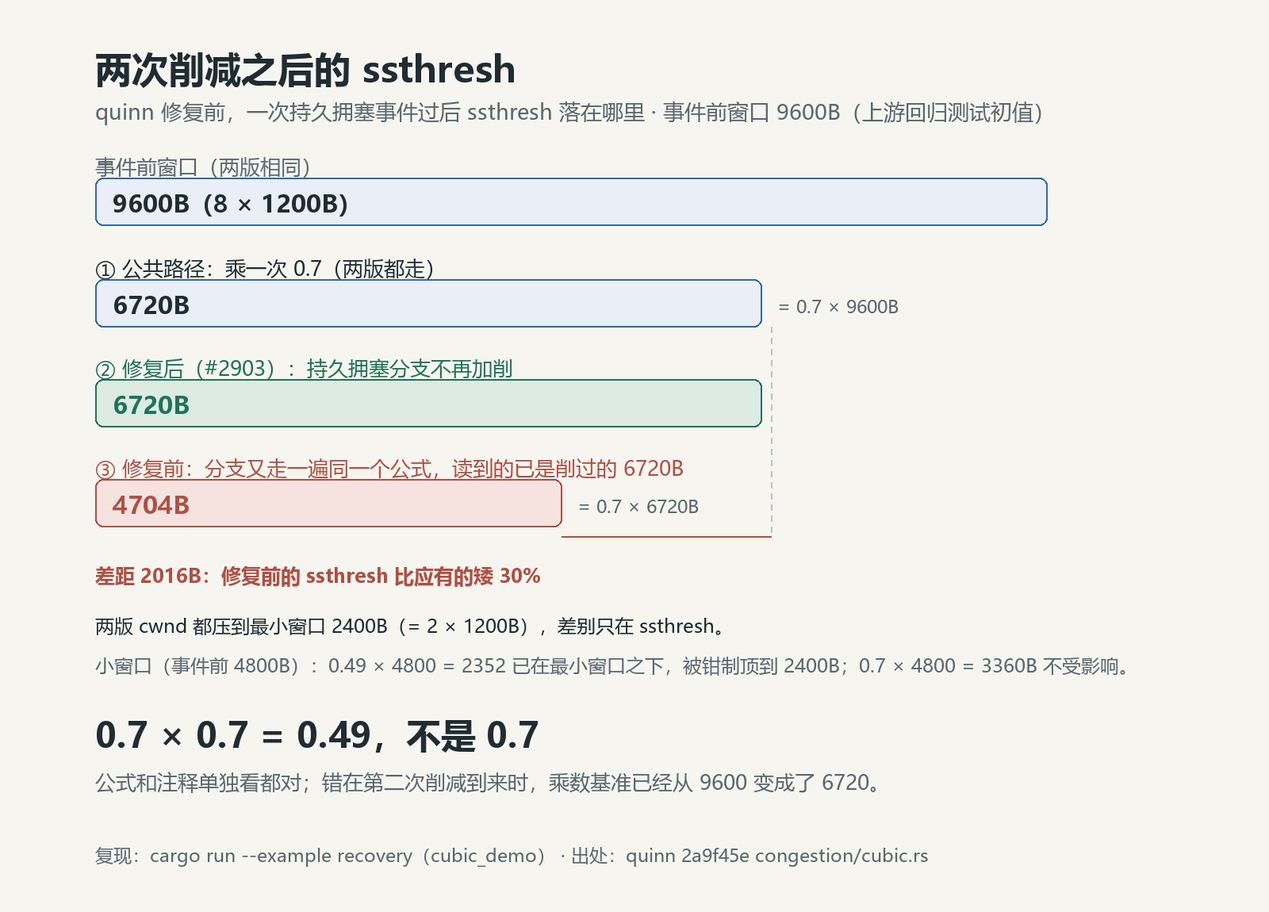
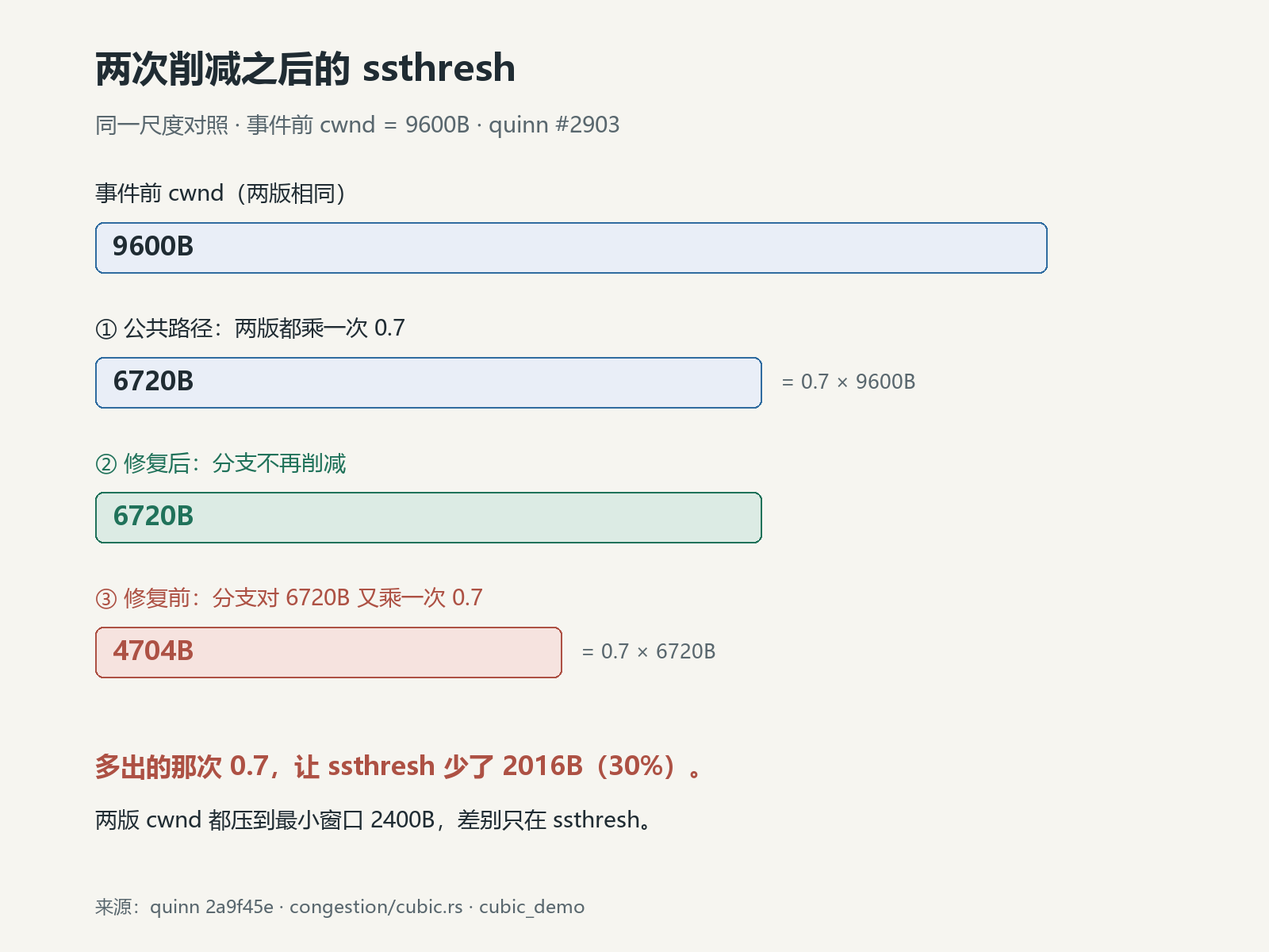
docs(cubic): clarify RFC semantics and demo scope, improve explanations and diagram

diff --git a/拥塞控制_cubic/cubic_demo/make_fig.py b/拥塞控制_cubic/cubic_demo/make_fig.py
@@ -2,7 +2,7 @@
 
 - ../assets/fig1_ssthresh_two_cuts.png（Pillow）：讲机制——事件后 ssthresh 去了哪里，
   事件前窗口、一次 0.7、0.49 画在同一把尺子上。数字与单元测试断言一致
-  （4704/6720/2352→2400/3360）。
+  （9600→6720/4704）。
 - ../assets/fig2_recovery.png（matplotlib）：讲后果——持久拥塞事件后两版窗口的
   逐 RTT 轨迹，数据经 `cargo run --example plot_data` 实时导出。
 
@@ -28,64 +28,58 @@ if not FONT_BOLD.exists():
 INK, MUTED, LINE = "#202c33", "#59676e", "#d4dbda"
 BLUE, GREEN, RED = "#306ca0", "#20725a", "#ad5144"
 BG = "#f6f5f0"
-SCALE = 0.125  # px / byte：9600B → 1200px，三行条共用这一把尺子
+SCALE = 0.125  # px / byte：9600B → 1200px，各行条形共用这一把尺子
 
 
 def make_fig1() -> Path:
     from PIL import Image, ImageDraw, ImageFont
 
-    W, H = 1600, 1150
+    W, H = 1600, 1200
+    M = 120
     im = Image.new("RGB", (W, H), BG)
     d = ImageDraw.Draw(im)
+    text_boxes = []
 
     def text(x, y, value, size=28, color=INK, bold=False):
-        d.text(
-            (x, y),
-            value,
-            font=ImageFont.truetype(str(FONT_BOLD if bold else FONT), size),
-            fill=color,
-        )
+        font = ImageFont.truetype(str(FONT_BOLD if bold else FONT), size)
+        box = d.textbbox((x, y), value, font=font, anchor="lt")
+        assert M <= box[0] and box[2] <= W - M, (value, box)
+        assert 0 <= box[1] and box[3] <= H, (value, box)
+        for previous, previous_box in text_boxes:
+            overlap = (min(box[2], previous_box[2]) > max(box[0], previous_box[0])
+                       and min(box[3], previous_box[3]) > max(box[1], previous_box[1]))
+            assert not overlap, (previous, value)
+        text_boxes.append((value, box))
+        d.text((x, y), value, font=font, fill=color, anchor="lt")
+        return box
 
-    def bar(x, y, value, fill, outline, label, lab_color, note=None, note_y=18):
-        w = int(value * SCALE)
-        d.rounded_rectangle((x, y, x + w, y + 60), radius=10, fill=fill, outline=outline, width=2)
-        text(x + 22, y + 12, label, 30, lab_color, bold=True)
+    def row(label_y, value, fill, outline, label, color=INK, note=None):
+        # 行标题、条形和下一行之间均留独立净空；不是靠画布变大后缩小字号。
+        bar_y = label_y + 50
+        bar_h = 64
+        title_box = text(M, label_y, label, 28, color)
+        assert bar_y - title_box[3] >= 20
+        width = int(value * SCALE)
+        d.rounded_rectangle((M, bar_y, M + width, bar_y + bar_h), radius=10,
+                            fill=fill, outline=outline, width=2)
+        text(M + 22, bar_y + 17, f"{value}B", 32, color, bold=True)
         if note:
-            text(x + w + 20, y + note_y, note, 23, MUTED)
+            text(M + width + 24, bar_y + 21, note, 25, MUTED)
 
-    M = 120  # 全图统一左边距（文字与条形共用）
-    B1, B2, B3, B0 = 224, 478, 604, 6720 * int(SCALE)  # 各行 y 与 6720 的位置
-    text(M, 55, "两次削减之后的 ssthresh", 46, bold=True)
-    text(M, 122, "quinn 修复前，一次持久拥塞事件过后 ssthresh 落在哪里 · 事件前窗口 9600B（上游回归测试初值）", 27, MUTED)
+    text(M, 64, "两次削减之后的 ssthresh", 46, bold=True)
+    text(M, 144, "同一尺度对照 · 事件前 cwnd = 9600B · quinn #2903", 28, MUTED)
 
-    text(M, 192, "事件前窗口（两版相同）", 26, MUTED)
-    bar(M, 224, 9600, "#e9eef7", BLUE, "9600B（8 × 1200B）", INK)
+    row(230, 9600, "#e9eef7", BLUE, "事件前 cwnd（两版相同）")
+    row(400, 6720, "#e9eef7", BLUE, "① 公共路径：两版都乘一次 0.7",
+        note="= 0.7 × 9600B")
+    row(570, 6720, "#dcebe4", GREEN, "② 修复后：分支不再削减", GREEN)
+    row(740, 4704, "#f6e3df", RED, "③ 修复前：分支对 6720B 又乘一次 0.7", RED,
+        note="= 0.7 × 6720B")
 
-    text(M, 320, "① 公共路径：乘一次 0.7（两版都走）", 26)
-    bar(M, 352, 6720, "#e9eef7", BLUE, "6720B", INK, note="= 0.7 × 9600B")
-
-    text(M, 446, "② 修复后（#2903）：持久拥塞分支不再加削", 26, GREEN)
-    bar(M, 478, 6720, "#dcebe4", GREEN, "6720B", GREEN)
-
-    text(M, 572, "③ 修复前：分支又走一遍同一个公式，读到的已是削过的 6720B", 26, RED)
-    bar(M, 604, 4704, "#f6e3df", RED, "4704B", RED, note="= 0.7 × 6720B")
-
-    # 6720 的刻度位置：从 ① 条底缘向下引浅灰虚线（与条形右边框错开 12px），
-    # ③ 条下方用红线标出 4704 到 6720 的差距，虚线落到红线之上的位置形成 L 形标记
-    x6720 = M + int(6720 * SCALE)  # ①② 条右缘 = 6720 的位置
-    xr = x6720 + 12                # 虚线 x，避开条形 2px 边框
-    for y in range(412, 676, 14):
-        d.line((xr, y, xr, min(y + 7, 676)), fill="#b7c4c7", width=2)
-    d.line((M + int(4704 * SCALE), 676, xr, 676), fill=RED, width=2)  # ③ 条右缘 → 6720 刻度
-    text(M, 708, "差距 2016B：修复前的 ssthresh 比应有的矮 30%", 25, RED, bold=True)
-
-    text(M, 772, "两版 cwnd 都压到最小窗口 2400B（= 2 × 1200B），差别只在 ssthresh。", 24)
-    text(M, 822, "小窗口（事件前 4800B）：0.49 × 4800 = 2352 已在最小窗口之下，被钳制顶到 2400B；0.7 × 4800 = 3360B 不受影响。", 24, MUTED)
-
-    text(M, 896, "0.7 × 0.7 = 0.49，不是 0.7", 44, bold=True)
-    text(M, 968, "公式和注释单独看都对；错在第二次削减到来时，乘数基准已经从 9600 变成了 6720。", 26, MUTED)
-
-    text(M, 1062, "复现：cargo run --example recovery（cubic_demo） · 出处：quinn 2a9f45e congestion/cubic.rs", 23, MUTED)
+    # 不再叠加跨行虚线、小窗口算例和重复的大公式；小窗口在正文第四节解释。
+    text(M, 950, "多出的那次 0.7，让 ssthresh 少了 2016B（30%）。", 32, RED, bold=True)
+    text(M, 1020, "两版 cwnd 都压到最小窗口 2400B，差别只在 ssthresh。", 28)
+    text(M, 1132, "来源：quinn 2a9f45e · congestion/cubic.rs · cubic_demo", 23, MUTED)
 
     out = ASSETS / "fig1_ssthresh_two_cuts.png"
     im.save(out)

diff --git a/拥塞控制_cubic/Cubic_Persistent_Congestion_Second_Cut_EN.md b/拥塞控制_cubic/Cubic_Persistent_Congestion_Second_Cut_EN.md
@@ -1,6 +1,6 @@
 # How ssthresh Became 0.49: The Second Cut in Quinn's CUBIC Persistent Congestion
 
-The pre-event window is 9600 bytes (8 × 1200, the initial value in the upstream regression test), and one persistent congestion event lands on CUBIC. Per the RFC, after the event `cwnd` is pressed to the minimum window of 2400 bytes and `ssthresh` = 0.7 × pre-event window = 6720 bytes ([RFC 9438 §4.8](https://www.rfc-editor.org/rfc/rfc9438.html#section-4.8)).
+Before the event, the congestion window is 9600 bytes (8 × 1200, the initial value in the upstream regression test). After persistent congestion, the fixed quinn implementation reduces `cwnd` to the minimum window of 2400 bytes and sets `ssthresh` to 0.7 × pre-event `cwnd` = 6720 bytes.
 
 Before the fix, quinn left `ssthresh` at 4704. And 4704 = 0.49 × 9600: **β_cubic got multiplied a second time**. Both versions move `cwnd` the same way; the whole difference sits at this one boundary. It is the line between slow start's doubling and congestion avoidance's step-by-step growth ([§4.6](https://www.rfc-editor.org/rfc/rfc9438.html#section-4.6)). Make it lower and the road back for the window gets longer: in the reproduction, 2 RTTs become 12, and at a smaller window 1 becomes 6.
 
@@ -56,15 +56,21 @@ The pre-event state is identical in both versions; the fork happens entirely ins
 
 ## 2. The Spec Calls for One Cut
 
-Persistent congestion is a QUIC notion ([RFC 9002 §7.6](https://www.rfc-editor.org/rfc/rfc9002.html#section-7.6)): losses persisting beyond `(smoothed_rtt + max(4×rttvar, timer granularity) + max_ack_delay) × kThreshold` trigger it, and quinn's `kThreshold` defaults to 3, so this path usually means the loss lasted roughly three PTOs — heavier than a scatter of lost packets.
+Persistent congestion is a QUIC notion. [RFC 9002 §7.6.1](https://www.rfc-editor.org/rfc/rfc9002.html#section-7.6.1) defines its duration threshold as `(smoothed_rtt + max(4×rttvar, timer granularity) + max_ack_delay) × kPersistentCongestionThreshold`; quinn defaults to a multiplier of 3.
 
-CUBIC handles it through the timeout path. [RFC 9438 §4.8](https://www.rfc-editor.org/rfc/rfc9438.html#section-4.8), verbatim:
+Exceeding that duration alone is not enough: under [§7.6.2](https://www.rfc-editor.org/rfc/rfc9002.html#section-7.6.2), after receiving an ACK the sender must declare two ack-eliciting packets lost, with their send times more than that duration apart, no packets sent between them acknowledged across packet number spaces, and an RTT sample already available when both packets were sent.
+
+This is a comparison of send times, **not a requirement for three consecutive PTO expirations**. The duration also always includes `max_ack_delay`, unlike the PTO calculation for some packet number spaces.
+
+quinn's CUBIC handles it through the timeout path. [RFC 9438 §4.8](https://www.rfc-editor.org/rfc/rfc9438.html#section-4.8), verbatim:
 
 > In the case of a timeout, CUBIC follows Reno to reduce *cwnd* but sets *ssthresh* using β_cubic (same as in Section 4.6) in a way that is different from Reno TCP.
 
-And the cut §4.6 describes is anchored to the pre-event flight window: `ssthresh = flight_size × β_cubic`. Read together, the two sections say one thing: after a timeout, `ssthresh` is **once** the 0.7 of the pre-event window, no second cut.
+The basic formula in [§4.6](https://www.rfc-editor.org/rfc/rfc9438.html#section-4.6) is `ssthresh = flight_size × β_cubic`, subject to a minimum. `flight_size` is the amount of outstanding, unacknowledged data in the network; `cwnd` is the permitted congestion window. Think of `cwnd` as a shipping allowance and `flight_size` as goods dispatched but not yet signed for. An allowance of 9600 does not mean that 9600 is on the road: if the application has only supplied 4800 bytes, the outstanding amount may be only half the allowance.
 
-The old code's comment said `4.7 Timeout` — that is not a typo. In the older RFC 8312, Timeout *was* [§4.7](https://www.rfc-editor.org/rfc/rfc8312.html#section-4.7), with "sets ssthresh using beta_cubic (same as in Section 4.5)" — the same statement as RFC 9438's. The clause has always meant "post-event `ssthresh` is 0.7 of the pre-event window". The code turned that into an **extra step** inside the persistent branch, by which point the base being multiplied was already the value the common path had cut.
+The RFC also permits implementations to use `cwnd`, but requires other measures to prevent it from growing when bytes in flight are smaller than `cwnd`. This article examines quinn's specific implementation, which uses the pre-event `cwnd`: the common path has already multiplied it by 0.7, so timeout handling must not multiply the reduced window a second time.
+
+The old code's comment said `4.7 Timeout` — that is not a typo. In the older RFC 8312, Timeout *was* [§4.7](https://www.rfc-editor.org/rfc/rfc8312.html#section-4.7), with "sets ssthresh using beta_cubic (same as in Section 4.5)" — the same statement as RFC 9438's. Both versions tell timeout handling to reuse the congestion-event β_cubic reduction, not add another reduction. The old code turned that into an **extra step** inside the persistent branch, by which point the base being multiplied was already the value the common path had cut.
 
 ## 3. NewReno Never Had This
 
@@ -84,16 +90,20 @@ if is_persistent_congestion {
 
 ## 4. How Heavy Is 0.49
 
-`ssthresh` is the boundary between slow start and congestion avoidance. At the end of a persistent congestion event the recovery state is cleared, so the sender re-enters slow start from the minimum window, doubling until `ssthresh`, then takes over with CUBIC's cubic growth. A 30%-lower `ssthresh` shortens slow start and lengthens the climb back.
+Keeping the shipping analogy: congestion cuts the allowance to a small value, and the sender then tries to build it back up. `ssthresh` is neither the current allowance nor a ceiling it can never exceed. It marks when to stop expanding quickly and start probing in smaller steps. In the code, a window below it follows slow start, growing with acknowledged bytes; at or above it, congestion avoidance takes over and CUBIC controls the growth.
 
-The `cubic_demo` in this repo is a minimal port of exactly this path; both versions run the same script: pre-event window 9600 bytes, rtt 100ms, one persistent congestion event, then each RTT sends the whole current window and it is all acknowledged, until the window is back to its pre-event size. Both versions start from 2400B (the minimum window) after the event:
+A lower threshold therefore does not mean faster recovery. With a window of 4800B and a threshold of 6720B, the next round still follows slow start. Lower that threshold to 4704B and the same 4800B window enters congestion avoidance. The two windows are the same size at this point, but their next growth steps follow different paths.
+
+The `cubic_demo` in this repo is a minimal port of the controller logic, not a full QUIC connection test. Both versions run the same script: pre-event window 9600 bytes, fixed RTT of 100ms, one direct call to the persistent-congestion handler, then each RTT simulates sending the current window and acknowledges it all in one `on_ack` call. There are no further losses, per-packet ACK scheduling, pacing, or application limits. The run stops when the window reaches its pre-event size.
+
+The 2 / 12 and 1 / 6 RTT counts below describe window recovery in this model, not measurements of connection recovery time or throughput gains. Both versions start from 2400B (the minimum window) after the event:
 
 | Event-after RTT | 1 | 2 | 3 | 4 | 5 | 6 | 7 | 8 | 9 | 10 | 11 | 12 |
 |---|---|---|---|---|---|---|---|---|---|---|---|---|
 | post-fix | 4800 | **9600** | 9600 | 9600 | 9600 | 9600 | 9600 | 9600 | 9600 | 9600 | 9600 | 9600 |
 | pre-fix | 4800 | 4800 | 4800 | 4800 | 4800 | 6000 | 6000 | 7200 | 8400 | 8400 | 8400 | **9600** |
 
-Standard window (9600B pre-event): at RTT 1 both are 4800 — 2400 has not touched either threshold yet, so slow start doubles as usual. At RTT 2 they split: above 6720, the post-fix version keeps doubling and is home at 9600; the pre-fix 4800 has already crossed the 4704 line and slides into congestion avoidance — four more RTTs pinned at 4800, then one 1200-byte cell per RTT (6000, 7200, 8400), back to 9600 only at RTT 12.
+Standard window (9600B pre-event): at RTT 1 both are 4800 — 2400 has not touched either threshold yet, so slow start doubles as usual. At RTT 2 they split: the post-fix 4800 is still below 6720, so slow start doubles it to 9600; the pre-fix 4800 has already crossed the 4704 line and slides into congestion avoidance — four more RTTs pinned at 4800, then growth in 1200-byte steps, with further pauses at intermediate windows (6000, 7200, 8400), back to 9600 only at RTT 12.
 
 Small window: with 4800 bytes pre-event, 0.49 × 4800 = 2352 is already below the minimum window of 2400 and gets clamped; 0.7 × 4800 = 3360 stays above it. Still that same 0.49 — the clamp just holds the pre-fix `ssthresh` at 2400B, a smaller drop, but the post-fix version's first growth is straight back to the pre-event size (1 RTT) while the pre-fix version pushes one cell at a time for 6:
 
@@ -127,7 +137,7 @@ fn persistent_congestion_does_not_double_reduce_ssthresh() {
 }
 ```
 
-The assertion is exactly Section 2's sentence: after a persistent congestion event, `ssthresh == 0.7 × pre-event window` and `cwnd` is down to the minimum window only. Run the 0.49 version and the first assertion catches it. The PR's verification: `cargo test -p quinn-proto`, all 333 tests pass, clippy and fmt clean.
+The assertion pins down quinn's implementation behavior: after a persistent congestion event, `ssthresh == 0.7 × pre-event window` and `cwnd` is down to the minimum window only. Run the 0.49 version and the first assertion catches it. The PR's verification: `cargo test -p quinn-proto`, all 333 tests pass, clippy and fmt clean.
 
 The `cubic_demo` port keeps the full ordering of the event handling and simplifies three things: time is integral milliseconds, rtt is fixed per call, and the spurious-rollback and MTU-update branches are dropped. Every difference between the two versions is exactly whether those five lines are there:
 
@@ -135,6 +145,8 @@ The `cubic_demo` port keeps the full ordering of the event handling and simplifi
 
 ## The Takeaway
 
-This is one of those errors that only exists when a formula is applied in the wrong place: `ssthresh = 0.7 × window` is correct in isolation, and so is the spec clause the comment points at — it simply should not sit after the common-path cut. The spec's "cut once" was implemented as "cut once in the common path, once more in the branch", and the second time it picks up an already-shrunk window.
+The problem is not 0.7, but when the window is read. quinn should calculate `ssthresh` from the pre-event `cwnd`; the branch instead reads the `window` already reduced by the common path. The same β_cubic ends up being applied twice to one congestion event. When reading state updates like these, checking the formula is only half the job. Follow the assignments too: does the `window` on the right-hand side still hold its original value at this point?
 
 The upstream fix rewrites nothing — delete five lines, add a test.
+
+Updated 2026-10-28: distinguish the RFC's `flight_size` from quinn's `cwnd`, complete the persistent-congestion conditions, specify the simulated sending and ACK model behind the recovery RTT counts, and give the mechanism diagram more space between labels and bars.

diff --git a/拥塞控制_cubic/cubic_持久拥塞_ssthresh_二次削减_中文版.md b/拥塞控制_cubic/cubic_持久拥塞_ssthresh_二次削减_中文版.md
@@ -1,6 +1,6 @@
 # ssthresh 怎么会是 0.49：quinn CUBIC 持久拥塞里的两次削减
 
-事件前窗口 9600 字节（8 × 1200，上游回归测试的初值），一次持久拥塞事件打进 CUBIC。按规范，事件后 `cwnd` 压到最小窗口 2400 字节，`ssthresh` = 0.7 × 事件前窗口 = 6720 字节（[RFC 9438 §4.8](https://www.rfc-editor.org/rfc/rfc9438.html#section-4.8)）。
+事件前，拥塞窗口是 9600 字节（8 × 1200，上游回归测试的初值）。发生持久拥塞后，修复后的 quinn 把 `cwnd` 降到最小窗口 2400 字节，`ssthresh` 则按事件前的 `cwnd` 乘一次 0.7，得到 6720 字节。
 
 修复前的 quinn 把 `ssthresh` 留成了 4704。4704 = 0.49 × 9600：**β_cubic 被乘了第二下**。`cwnd` 两版相同，差别全在这条界线上——它是慢启动翻倍和拥塞避免一格一格推的分界（[§4.6](https://www.rfc-editor.org/rfc/rfc9438.html#section-4.6)），矮了，事件后窗口回来的路就长：复现例子里，2 个 RTT 被拖成 12 个，小窗口下 1 个拖成 6 个。
 
@@ -56,17 +56,23 @@ self.state.ssthresh = cmp::max(
 
 ![事件后 ssthresh 落在哪里（同一把尺子：事件前窗口 → 一次 0.7 → 0.49）](assets/fig1_ssthresh_two_cuts.png)
 
-## 二、规范说的是撤一次
+## 二、规范说的是减一次
 
-持久拥塞是 QUIC 自己的概念（[RFC 9002 §7.6](https://www.rfc-editor.org/rfc/rfc9002.html#section-7.6)）：丢包持续超过 `(smoothed_rtt + max(4×rttvar, 时隙粒度) + max_ack_delay) × kThreshold` 就算。quinn 的 `kThreshold` 默认 3，也就是说这条路通常意味着"这一段的丢失至少持续了大约三个 PTO"——比丢几个包更重的情况。
+持久拥塞是 QUIC 自己的概念。[RFC 9002 §7.6.1](https://www.rfc-editor.org/rfc/rfc9002.html#section-7.6.1) 给出的持续时间阈值是 `(smoothed_rtt + max(4×rttvar, 时钟粒度) + max_ack_delay) × kPersistentCongestionThreshold`，quinn 的倍数默认 3。
 
-CUBIC 对它的处理走的是超时路径，[RFC 9438 §4.8](https://www.rfc-editor.org/rfc/rfc9438.html#section-4.8) 的原文：
+但超过这段时间还不够：[§7.6.2](https://www.rfc-editor.org/rfc/rfc9002.html#section-7.6.2) 要求收到 ACK 后，判定两个会引发确认的包（ack-eliciting）丢失，两包发送时间之差超过阈值，且其间发送的包跨包号空间都没有被确认；这两个包发送时还必须已经有 RTT 样本。
+
+这里比较的是发送时间跨度，**不要求实际连续触发三次 PTO**；该持续时间计算也始终计入 `max_ack_delay`，与部分包号空间的 PTO 计算有别。
+
+quinn 的 CUBIC 对它的处理走的是超时路径，[RFC 9438 §4.8](https://www.rfc-editor.org/rfc/rfc9438.html#section-4.8) 的原文：
 
 > In the case of a timeout, CUBIC follows Reno to reduce *cwnd* but sets *ssthresh* using β_cubic (same as in Section 4.6) in a way that is different from Reno TCP.
 
-而 §4.6 说的削减，基准是事件前的在途窗口：`ssthresh = flight_size × β_cubic`。两节合起来的意思就是一句话：超时之后，`ssthresh` 等于**事件前**窗口的一次 0.7，不再减第二下。
+而 [§4.6](https://www.rfc-editor.org/rfc/rfc9438.html#section-4.6) 的基本公式是 `ssthresh = flight_size × β_cubic`（另有最小值约束）。`flight_size` 是网络中尚未确认的数据量，`cwnd` 是允许的拥塞窗口，两者不一定相等。可以把 `cwnd` 看作发货额度，`flight_size` 看作已经发出、还没签收的货量：额度有 9600，不代表路上就一定有 9600；如果应用暂时只交出 4800 的数据，实际在途量就可能只有额度的一半。
 
-旧代码的注释写着 `4.7 Timeout`——那不是编号写错了。旧版 RFC 8312 里 Timeout 就是 [§4.7](https://www.rfc-editor.org/rfc/rfc8312.html#section-4.7)，原文 "sets ssthresh using beta_cubic (same as in Section 4.5)"，和 RFC 9438 说的是同一件事。条款的意思始终是"削减后 `ssthresh` 为事件前窗口的 0.7 倍"；代码把它当成持久拥塞分支里的一个**追加步骤**，乘的基准已经变成了公共路径削完的值。
+RFC 也允许实现使用 `cwnd`，但要求另有措施：在在途数据量小于 `cwnd` 时，阻止 `cwnd` 继续增长。本文讨论的是 quinn 以事件前 `cwnd` 为基准的具体实现：公共路径已经乘过一次 0.7，超时处理不应再对削减后的窗口乘第二次。
+
+旧代码的注释写着 `4.7 Timeout`——那不是编号写错了。旧版 RFC 8312 里 Timeout 就是 [§4.7](https://www.rfc-editor.org/rfc/rfc8312.html#section-4.7)，原文 "sets ssthresh using beta_cubic (same as in Section 4.5)"，和 RFC 9438 说的是同一件事。两版条款都让超时处理沿用拥塞事件的 β_cubic 削减，而不是追加一次削减；旧代码却把它当成持久拥塞分支里的一个**追加步骤**，乘的基准已经变成了公共路径削完的值。
 
 ## 三、同一个问题，NewReno 没有
 
@@ -86,13 +92,17 @@ if is_persistent_congestion {
 
 ## 四、0.49 有多重
 
-`ssthresh` 是慢启动和拥塞避免的分界。持久拥塞收尾时恢复状态被清掉，发送方从最小窗口重新进慢启动，指数增长到 `ssthresh` 才切回 CUBIC 的立方增长。`ssthresh` 矮 30%，慢启动阶段被截短，后面靠立方曲线爬回来的路就更长。
+继续用发货来想：发生拥塞后，额度先被压到很小，接下来要试着恢复。`ssthresh` 不是当前额度，也不是以后不能超过的上限，而是“何时停止快速扩量、改为小步试探”的分界。对应到代码，窗口低于它时走慢启动，随确认字节数增长；达到它后进入拥塞避免，由 CUBIC 控制增长。
 
-仓库里的 `cubic_demo` 把这条路径做了个最小移植，两个版本跑同一个剧本：事件前窗口 9600 字节、rtt 100ms，触发一次持久拥塞事件，之后每个 RTT 把当前窗口一次性发满并全部确认，直到窗口回到事件前大小。事件后两版都从 2400B（最小窗口）出发，爬升过程画出来：
+所以，阈值更低不等于恢复更快。窗口来到 4800B 时，若分界是 6720B，下一轮还可以走慢启动；若分界已经降到 4704B，同样的 4800B 就会进入拥塞避免。两版此刻的窗口一样大，接下来却走了不同的增长路径。
 
-![持久拥塞事件之后，两版窗口的逐 RTT 轨迹：左为标准窗口，右为小窗口](assets/fig2_recovery.png)
+仓库里的 `cubic_demo` 是控制器逻辑的最小移植，不跑完整 QUIC 连接。两个版本跑同一个剧本：事件前窗口 9600 字节、RTT 固定 100ms，直接调用一次持久拥塞事件处理，之后每个 RTT 按当前窗口模拟发送，再用一次 `on_ack` 调用确认整个窗口；没有新增丢包，也不模拟逐包 ACK、pacing 或应用受限。窗口回到事件前大小就停止。
 
-左图是标准窗口（事件前 9600B）：第一个 RTT 两版都是 4800——2400 还没碰各自的阈值，慢启动如常翻倍。第二个 RTT 分道：6720 之上，fixed 继续翻倍回到 9600；buggy 的 4800 已经越过 4704 的阈值，滑进拥塞避免：窗口又停住 4 个 RTT，随后按 1200 字节一格地推，6000、7200、8400，到第 12 个 RTT 才回到 9600。
+下面的 2 / 12、1 / 6 个 RTT 描述的是这个模型里的窗口恢复，不代表完整连接的恢复时延或吞吐收益。事件后两版都从 2400B（最小窗口）出发：
+
+![cubic_demo 固定 RTT、每 RTT 一次全窗口 ACK 模型下的窗口轨迹：左为事件前 9600B，右为 4800B](assets/fig2_recovery.png)
+
+左图是标准窗口（事件前 9600B）：第一个 RTT 两版都是 4800——2400 还没碰各自的阈值，慢启动如常翻倍。第二个 RTT 分道：fixed 的 4800 仍低于 6720，继续慢启动翻倍回到 9600；buggy 的 4800 已经越过 4704 的阈值，滑进拥塞避免：窗口又停住 4 个 RTT，随后以 1200 字节为步长继续增长，中间仍有停顿，依次经过 6000、7200、8400，到第 12 个 RTT 才回到 9600。
 
 右图是小窗口：事件前 4800 字节时，0.49 × 4800 = 2352 已经低于最小窗口 2400，被钳制定住；0.7 × 4800 = 3360 还留在上面。相差的还是那个 0.49，只是钳制把 buggy 的 `ssthresh` 顶在 2400B——矮得少一点，但 fixed 第一次增长就直接回到事件前大小（1 个 RTT），buggy 一格一格推了 6 个 RTT。
 
@@ -121,7 +131,7 @@ fn persistent_congestion_does_not_double_reduce_ssthresh() {
 }
 ```
 
-断言就是第二节那句话：持久拥塞事件之后，`ssthresh == 0.7 × 事件前窗口`，`cwnd` 只剩最小窗口。换成 0.49 的版本，第一行断言就给抓住。PR 的验证记录：`cargo test -p quinn-proto` 333 个测试全过，clippy 与 fmt 干净。
+断言钉住的是 quinn 的实现行为：持久拥塞事件之后，`ssthresh == 0.7 × 事件前窗口`，`cwnd` 只剩最小窗口。换成 0.49 的版本，第一行断言就给抓住。PR 的验证记录：`cargo test -p quinn-proto` 333 个测试全过，clippy 与 fmt 干净。
 
 `cubic_demo` 的移植保留了事件处理的完整顺序，简化了三件事：时间用毫秒整数、rtt 每次调用固定、去掉 spurious 回滚和 MTU 更新的枝节。两版的全部差异就是那五行在不在：
 
@@ -129,6 +139,8 @@ fn persistent_congestion_does_not_double_reduce_ssthresh() {
 
 ## 写在最后
 
-这是个把公式放错顺序就能成立的错：`ssthresh = 0.7 × window` 这一句，单独看和注释指向的规范条款都没有错，它只是不该出现在公共路径削减之后。规范里"减一次"的语义，被实现成了"公共路径减一次、分支里再减一次"，而第二次拿到的已经是缩小后的窗口。
+问题不在 0.7，而在取值的时机。quinn 本来要用事件前的 `cwnd` 算 `ssthresh`，分支里读到的却是公共路径已经削过的 `window`。同一个 β_cubic，就这样对同一场拥塞生效了两次。读这类状态更新，除了核对公式，还得沿着赋值顺序看：右侧的 `window` 到这里时，还是原来那个值吗？
 
 上游的修法没有重写任何逻辑——删五行，加测试。
+
+2026-10-28 修订：区分 RFC 的 `flight_size` 与 quinn 使用的 `cwnd`，补全持久拥塞判定条件，明确恢复 RTT 数字对应的模拟发送与 ACK 模型，并疏开机制图的标签间距。

diff --git a/拥塞控制_cubic/cubic_demo/README.md b/拥塞控制_cubic/cubic_demo/README.md
@@ -1,6 +1,6 @@
 # CUBIC：持久拥塞下 ssthresh 的两版处理
 
-这个小工程是 quinn 的 CUBIC 拥塞控制器事件处理路径的最小移植。两版（#2903 修复前后）跑同一个持久拥塞剧本，输出逐 RTT 的窗口轨迹。不跑真实连接，不发动真 UDP。
+这个小工程是 quinn 的 CUBIC 拥塞控制器事件处理路径的最小移植。两版（#2903 修复前后）跑同一个持久拥塞剧本，输出逐 RTT 的窗口轨迹。它只模拟控制器状态变化，不做完整 QUIC 连接测试，也不发送 UDP；恢复 RTT 数字对应下述固定发送与 ACK 模型，不是实际网络性能提升的倍率。
 
 配套文章：[中文版](../cubic_持久拥塞_ssthresh_二次削减_中文版.md) / [English](../Cubic_Persistent_Congestion_Second_Cut_EN.md)。
 
@@ -11,7 +11,7 @@
 |`Version::fixed`|0.7 × 事件前窗口（公共路径一次削减）|#2903 合并后|
 |`Version::buggy`|0.49 × 事件前窗口（分支再读一次已被削过的窗口，乘 0.7）|#2903 之前|
 
-原型取自 quinn 固定提交 [`2a9f45e`](https://github.com/quinn-rs/quinn/commit/2a9f45e47899608ba8875260969667144fb9ef6c) 的 [`cubic.rs`](https://github.com/quinn-rs/quinn/blob/2a9f45e47899608ba8875260969667144fb9ef6c/quinn-proto/src/congestion/cubic.rs)。两版的唯一差别：`buggy` 的持久拥塞分支还会再读一次 `window`、乘一次 `BETA_CUBIC`——而那五行在 `fixed` 里就是被删掉的部分。事件处理的顺序与上游相同。
+原型取自 quinn 固定提交 [`2a9f45e`](https://github.com/quinn-rs/quinn/commit/2a9f45e47899608ba8875260969667144fb9ef6c) 的 [`cubic.rs`](https://github.com/quinn-rs/quinn/blob/2a9f45e47899608ba8875260969667144fb9ef6c/quinn-proto/src/congestion/cubic.rs)。两版的唯一差别：`buggy` 的持久拥塞分支还会再读一次 `window`、乘一次 `BETA_CUBIC`——而那五行在 `fixed` 里就是被删掉的部分。事件处理的顺序与上游相同。表中窗口指事件前的 `cwnd`，两版计算都以最小窗口 2400B 为下限（逐次削减时取整）；RFC 9438 §4.6 的基本公式使用的是 `flight_size`，区别见文章第二节。
 
 移植留下了完整的事件路径，省略了 spurious 回滚、MTU 更新与工厂/配置等与本文无关的部件：时间用 u64 毫秒，rtt 每次调用固定传入。
 
@@ -27,11 +27,11 @@ cargo run --example recovery
 
 debug / release 各有 5 条测试：两版事件后状态、非持久路径一致性、小窗口钳制、恢复先后。
 
-`recovery` 打印文章里的两个场景：
+`recovery` 直接调用持久拥塞事件处理，不模拟其丢包判定。之后固定 RTT 为 100ms，每个 RTT 按当前窗口模拟发送，并用一次 `on_ack` 调用确认整个窗口；没有后续丢包、逐包 ACK 调度、pacing 或应用受限。窗口达到事件前大小即停止。以下是该模型下的两个场景：
 
 |场景（rtt = 100ms）|修复后|修复前|
 |---|---|---|
-|事件前窗口 9600B|2 个 RTT 回 9600B|停 4800B 四个 RTT，再按 1200B 一格推，12 个 RTT 才回|
+|事件前窗口 9600B|2 个 RTT 回 9600B|首次到 4800B 后停四个 RTT，再以 1200B 为步长、间有停顿地增长，第 12 个 RTT 回到 9600B|
 |事件前窗口 4800B|1 个 RTT 回 4800B|6 个 RTT 回（修复前 `ssthresh` 被钳在最小窗口 2400B）|
 
 重绘文章配图需要 Python 与 Pillow、Matplotlib：`python make_fig.py`。fig2 的轨迹数据经 `cargo run --example plot_data` 实时导出，图、文章里的表与单元测试同一份状态。

diff --git a/README.md b/README.md
@@ -34,9 +34,9 @@
 
 ## CUBIC：quinn 的持久拥塞，ssthresh 怎么成了 0.49
 
-一次持久拥塞事件之后，`ssthresh` 该是事件前窗口的 0.7 倍（[RFC 9438 §4.8](https://www.rfc-editor.org/rfc/rfc9438.html#section-4.8)）。修复前的 quinn 在分支里把 0.7 乘了第二遍，拿到 0.7 × 0.7 的窗口。
+quinn 的 CUBIC 用事件前的 `cwnd` 计算 `ssthresh`，乘一次 0.7，并以最小窗口为下限。修复前的持久拥塞分支把 0.7 乘了第二遍，未触及下限时便成了事件前窗口的 0.49 倍。文章也区分了这里的 `cwnd` 与 RFC 9438 基本公式中的 `flight_size`。
 
-矮掉的界线把事件后窗口的恢复从 2 个 RTT 拖成 12 个。[quinn #2903](https://github.com/quinn-rs/quinn/pull/2903) 删的就是那五行。
+在固定 RTT、每个 RTT 一次性确认整个窗口的控制器演示中，矮掉的界线把窗口恢复从 2 个 RTT 拖成 12 个。[quinn #2903](https://github.com/quinn-rs/quinn/pull/2903) 删的就是那五行。
 
 - 原稿：[中文版](拥塞控制_cubic/cubic_持久拥塞_ssthresh_二次削减_中文版.md) / [English](拥塞控制_cubic/Cubic_Persistent_Congestion_Second_Cut_EN.md)
 - 对应修复：[quinn #2903](https://github.com/quinn-rs/quinn/pull/2903)（2026-09-30 合并）
@@ -66,7 +66,7 @@ cargo test --release
 cargo run --example recovery
 ```
 
-`recovery` 打印两组逐 RTT 轨迹：标准窗口 2 / 12 个 RTT 回事件前，小窗口 1 / 6，列头依次是修复前 / 修复后。
+`recovery` 打印控制器模拟的两组逐 RTT 轨迹：事件前窗口 9600B，修复后 / 修复前分别需 2 / 12 个 RTT 回到事件前大小；4800B 则是 1 / 6。每个 RTT 用一次 ACK 调用确认整个窗口，不跑完整 QUIC 连接；场景设定见[工程说明](拥塞控制_cubic/cubic_demo/README.md)。
 
 **方差**
 
